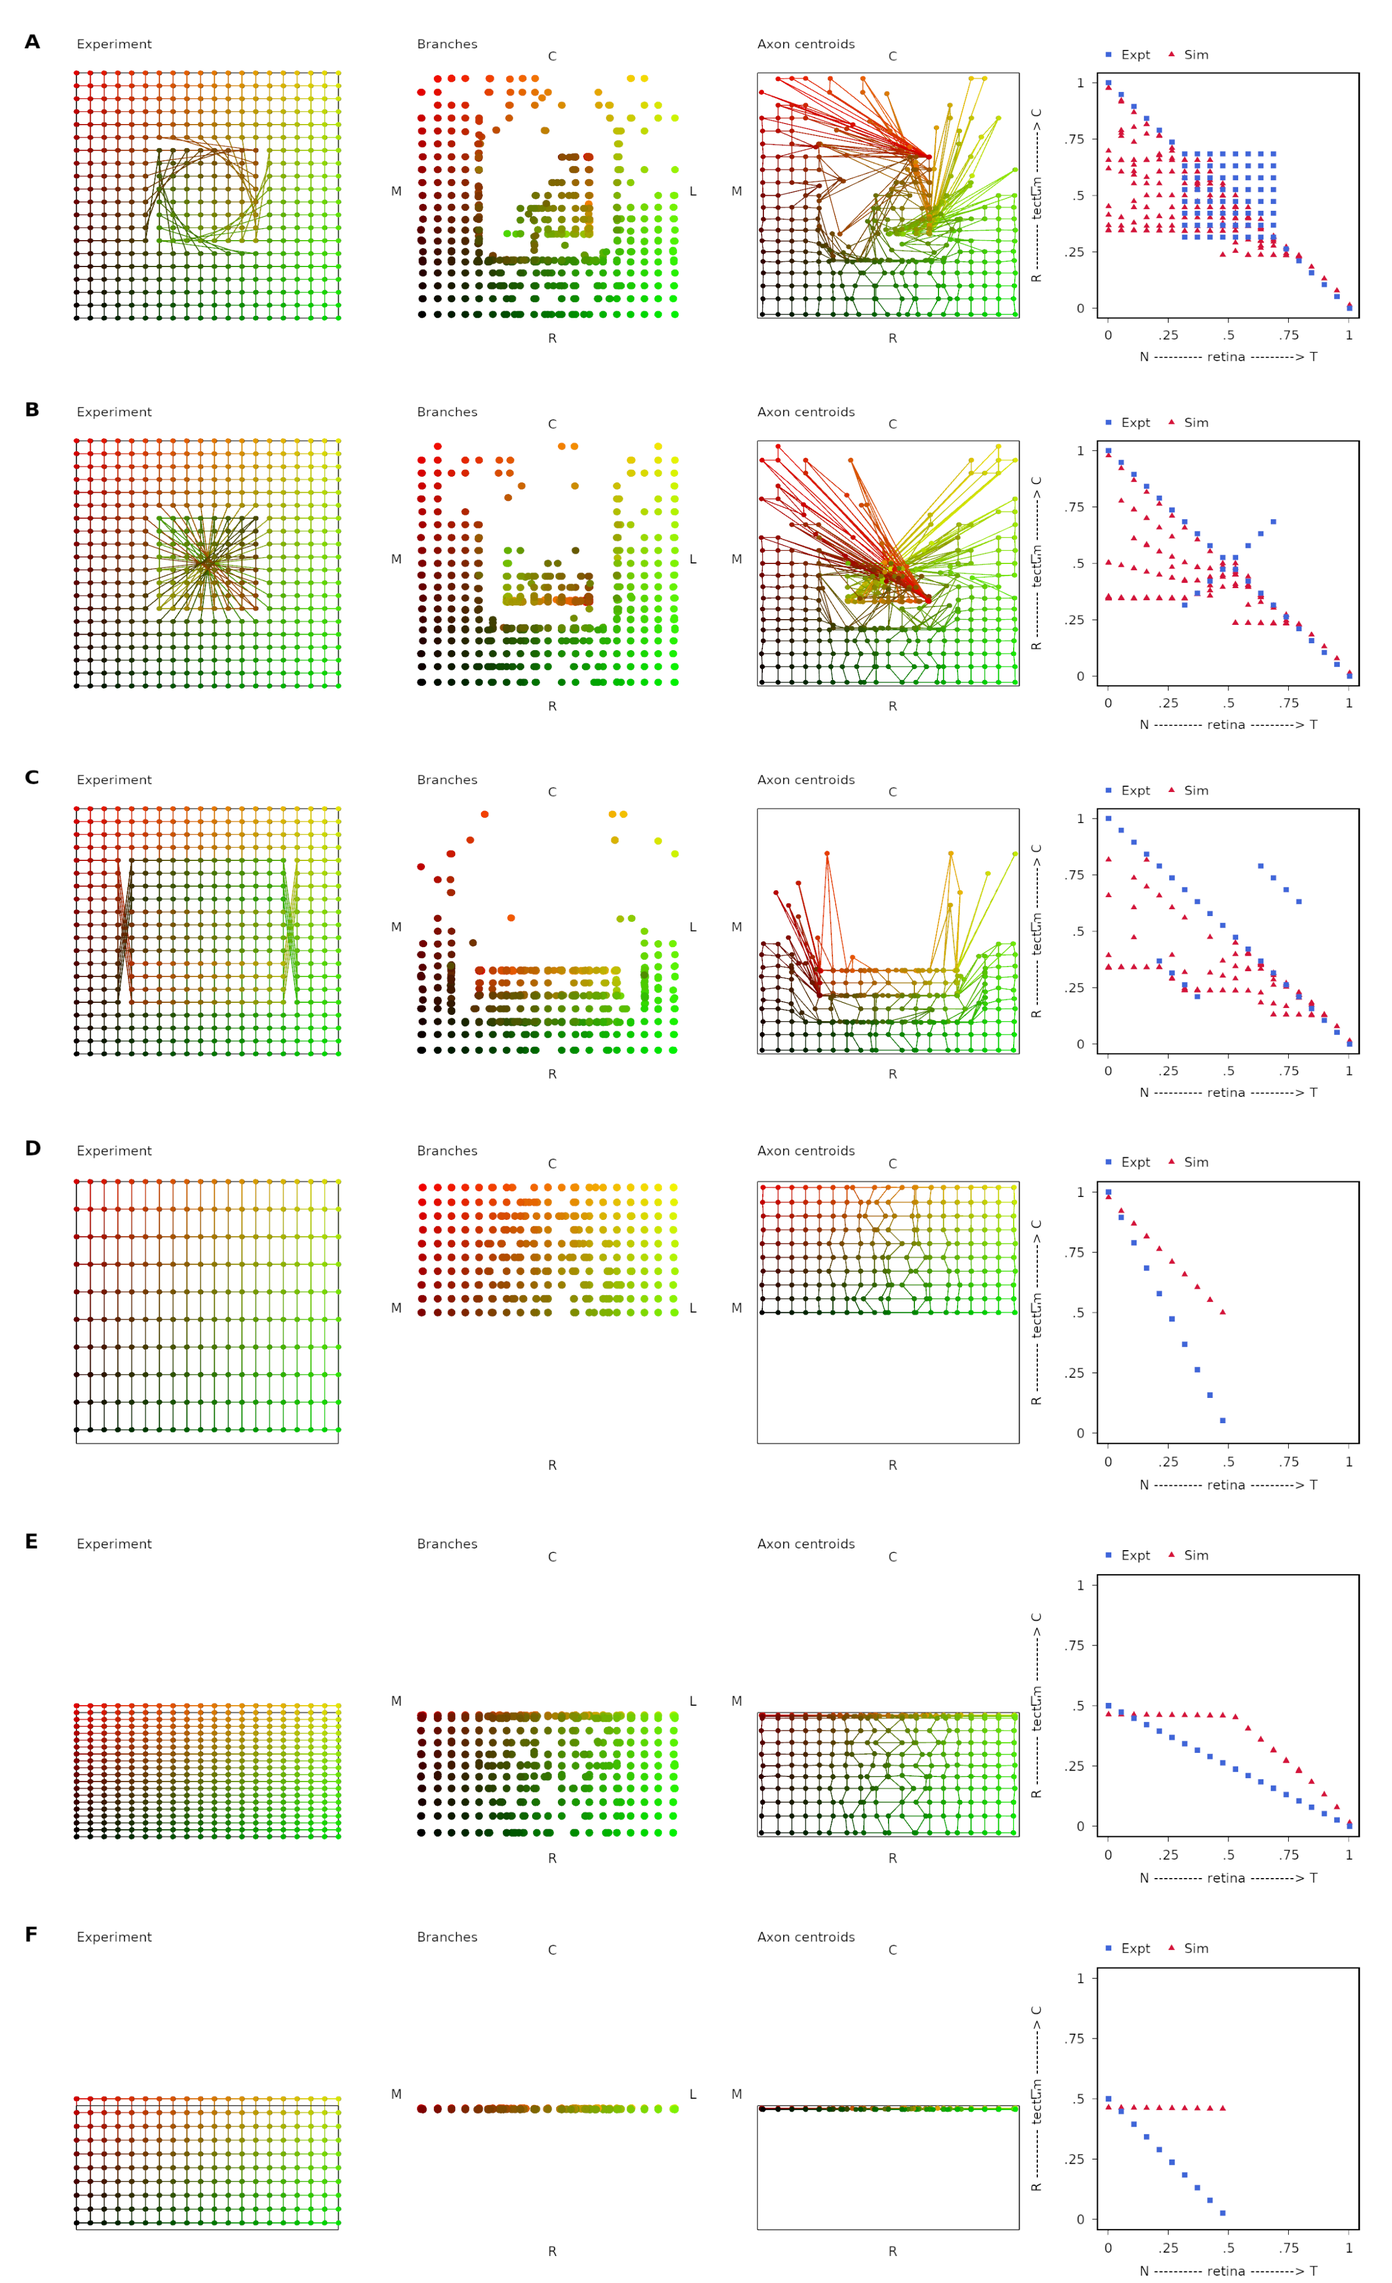
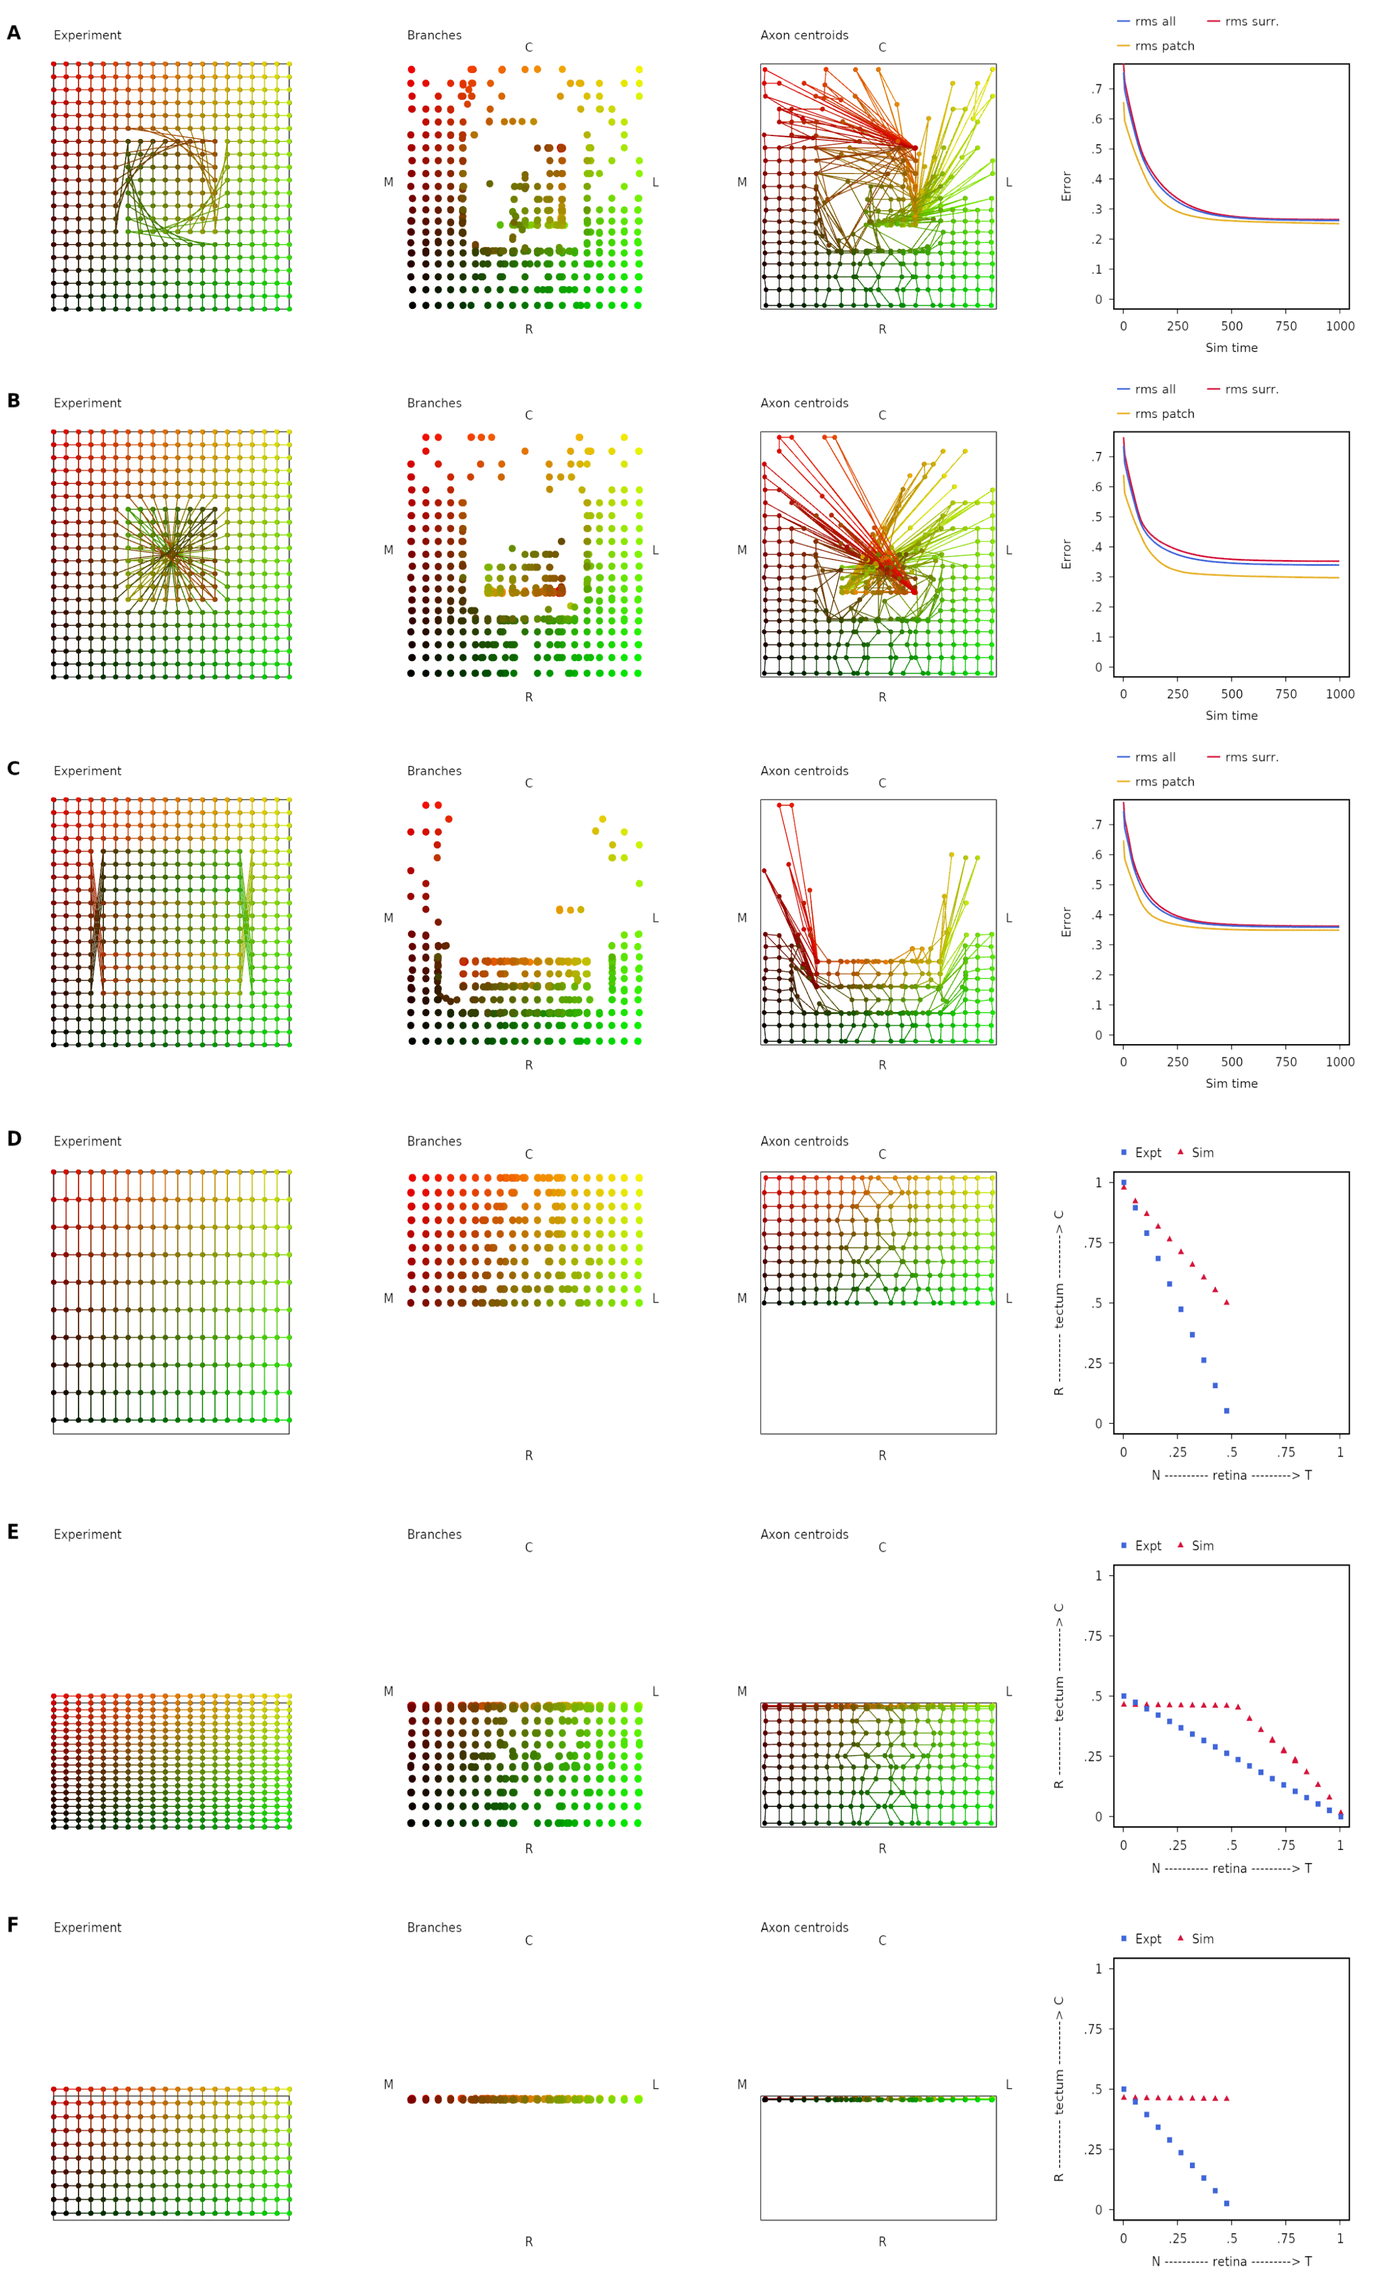
Updated layouts for manipulations images

diff --git a/sim/agent/agent1.h b/sim/agent/agent1.h
@@ -314,17 +314,96 @@ struct Agent1
             glfwPollEvents();
         }
 
+        switch (this->layout) {
+        case graph_layout::a:
+        {
+            this->bv->reinit();  // Branches
+            this->cv->reinit();  // Centroids to end
+            this->tcv->reinit(); // Experiment
+            this->av->reinit();  // Selected axons
+            this->gv->append ((float)stepnum, this->ax_centroids.sos(), 0); // SOS/Crossings
+            if (stepnum > this->crosscount_from && stepnum%this->crosscount_every == 0) {
+                this->gv->append ((float)stepnum, this->ax_centroids.crosscount(), 1);
+            }
+            break;
+        }
+        case graph_layout::b:
+        {
+            this->bv->reinit(); // Branches
+            this->cv->reinit(); // Centroids
+            this->av->reinit(); // Selected axons
+            break;
+        }
+        case graph_layout::c:
+        {
+            this->bv->reinit();  // Branches
+            if (stepnum <= this->freeze_times[1]) { this->cv1->reinit(); } // Time freeze branches
+            this->cv->reinit();  // Centroids
+            this->tcv->reinit(); // Experiment
+            this->av->reinit();  // Selected axons
+            this->gv->append ((float)stepnum, this->ax_centroids.sos(), 0); // SOS/Crossings
+            if (stepnum > this->crosscount_from && stepnum%this->crosscount_every == 0) {
+                this->gv->append ((float)stepnum, this->ax_centroids.crosscount(), 1);
+            }
+            break;
+        }
+        case graph_layout::d:
+        {
+            this->bv->reinit();  // Branches
+            this->cv->reinit();  // Centroids
+            this->tcv->reinit(); // Experiment
+            this->av->reinit();  // Selected axons
+            break;
+        }
+        case graph_layout::e:
+        {
+            this->bv->reinit(); // Branches
+            this->cv->reinit(); // Centroids
+            break;
+        }
+        case graph_layout::f:
+        {
+            this->cv->reinit(); // Centroids
+            this->sim_time_txt->setupText (std::to_string(stepnum)); // Text
+            AgentMetrics<T> am = this->get_metrics();
+            this->sos_txt->setupText (am.sos.str());
+            this->crossings_txt->setupText (am.crosscount.str());
+            break;
+        }
+        case graph_layout::g:
+        {
+            this->bv->reinit(); // Branches
+            this->cv->reinit(); // Centroids
+            this->gv->append ((float)stepnum, this->ax_centroids.rms(), 0); // SOS (whole)
+            this->gv->append ((float)stepnum, this->ax_centroids.rms_outside({0.25,0.25,0},{0.75,0.75,0}), 1); // SOS (surround)
+            this->gv->append ((float)stepnum, this->ax_centroids.rms_inside({0.25,0.25,0},{0.75,0.75,0}), 2); // SOS (patch)
+            break;
+        }
+        case graph_layout::h:
+        {
+            this->bv->reinit(); // Branches
+            this->cv->reinit(); // Centroids
+            break;
+        }
+        default:
+            std::cerr << "Warning: Unknown graph_layout\n";
+            break;
+        }
+#if 0 // Delete when the above is reasonably well tested
         if (this->layout != graph_layout::f) {
             this->bv->reinit(); // Branches
         }
-
         // Centroids that should show up to a certain time
         if (this->layout == graph_layout::c) {
             if (stepnum <= this->freeze_times[1]) { this->cv1->reinit(); }
         }
         this->cv->reinit(); // Centroids to end
 
-        if (this->layout != graph_layout::e && this->layout != graph_layout::f && this->layout != graph_layout::h) {
+        if (this->layout != graph_layout::e
+            && this->layout != graph_layout::f
+            && this->layout != graph_layout::g
+            && this->layout != graph_layout::h) {
+
             if (this->layout != graph_layout::b) {
                 this->tcv->reinit(); // Experiment
             }
@@ -336,12 +415,13 @@ struct Agent1
                 this->gv->append ((float)stepnum, this->ax_centroids.crosscount(), 1);
             }
         }
-        if (this->layout == graph_layout::f) {
+        if (this->layout == graph_layout::f || this->layout == graph_layout::g) {
             this->sim_time_txt->setupText (std::to_string(stepnum));
             AgentMetrics<T> am = this->get_metrics();
             this->sos_txt->setupText (am.sos.str());
             this->crossings_txt->setupText (am.crosscount.str());
         }
+#endif
 
         this->v->render();
         if (this->conf->getBool ("movie", false)) {
@@ -1327,7 +1407,7 @@ struct Agent1
         unsigned int hdefault = 800;
         if (this->layout == graph_layout::a || this->layout == graph_layout::d) { hdefault = 1200; }
         if (this->layout == graph_layout::b || this->layout == graph_layout::e
-            || this->layout == graph_layout::g || this->layout == graph_layout::h ) { hdefault = 700; }
+            || this->layout == graph_layout::g || this->layout == graph_layout::h ) { hdefault = 630; }
         if (this->layout == graph_layout::c) { hdefault = 1180; }
         if (this->layout == graph_layout::f) { hdefault = 550; }
         const unsigned int wh = this->conf->getUInt ("win_height", hdefault);
@@ -1350,9 +1430,9 @@ struct Agent1
         } else if (this->layout == graph_layout::f) {
             this->v->setSceneTrans (1.00190961f,0.0175217576f,-2.70000315f);
         } else if (this->layout == graph_layout::g) {
-            this->v->setSceneTrans (-0.865482569f,-0.0471459851f,-2.79999995f);
+            this->v->setSceneTrans (-1.22557163,-0.0104022622,-2.79999995);
         } else if (this->layout == graph_layout::h) {
-            this->v->setSceneTrans (-0.865482569f,-0.0471459851f,-2.79999995f);
+            this->v->setSceneTrans (-1.22557163,-0.0104022622,-2.79999995);
         }
 
         if constexpr (use_ortho) {
@@ -1757,16 +1837,18 @@ struct Agent1
     void graph_layout_g (const morph::Vector<float>& offset0, const std::string& startletter)
     {
         morph::Vector<float> g_A = offset0 + morph::Vector<float>({0.0f, 0.0f, 0.0f});
-        morph::Vector<float> g_B = offset0 + morph::Vector<float>({1.3f, 0.0f, 0.0f});
-        morph::Vector<float> g_C = offset0 + morph::Vector<float>({2.6f, 0.0f, 0.0f});
-        morph::Vector<float> g_D = offset0 + morph::Vector<float>({3.9f, 0.0f, 0.0f});
+        morph::Vector<float> g_B = offset0 + morph::Vector<float>({1.5f, 0.0f, 0.0f});
+        morph::Vector<float> g_C = offset0 + morph::Vector<float>({3.0f, 0.0f, 0.0f});
+        morph::Vector<float> g_D = offset0 + morph::Vector<float>({4.5f, 0.0f, 0.0f});
 
+        // Expt net
         this->tcv = new NetVisual<T> (v->shaderprog, v->tshaderprog, g_A, &this->ax_centroids);
         this->tcv->viewmode = netvisual_viewmode::targetplus;
         this->tcv->finalize();
         this->tcv->addLabel ("Experiment", {0.0f, 1.1f, 0.0f});
         this->v->addVisualModel (this->tcv);
 
+        // Branches
         this->bv = new BranchVisual<T, N, B> (v->shaderprog, v->tshaderprog, g_B, &this->branches, &this->ax_history);
         this->bv->rcpt_scale.compute_autoscale (rcpt_min, rcpt_max);
         this->bv->target_scale.compute_autoscale (0, 1);
@@ -1778,8 +1860,6 @@ struct Agent1
 
         // Axon centroids: Centroids of branches viewed with a NetVisual
         this->cv = new NetVisual<T> (v->shaderprog, v->tshaderprog, g_C, &this->ax_centroids);
-        //this->cv->maxlen = this->conf->getDouble ("maxnetline", 1.0);
-        //this->cv->viewmode = netvisual_viewmode::actual_nolines;
         this->cv->viewmode = netvisual_viewmode::actual;
         if (this->layout == graph_layout::b) {
             this->cv->radiusFixed = 0.02;
@@ -1789,15 +1869,19 @@ struct Agent1
         this->addOrientationLabels (this->cv, std::string("Tectal"));
         this->v->addVisualModel (this->cv);
 
-        // Selected axons: This one gives an 'axon view'
-        this->av = new BranchVisual<T, N, B> (v->shaderprog, v->tshaderprog, g_D, &this->branches, &this->ax_history);
-        this->av->view = branchvisual_view::axonview;
-        for (auto sa : this->seeaxons) { this->av->seeaxons.insert(sa); }
-        this->av->rcpt_scale.compute_autoscale (rcpt_min, rcpt_max);
-        this->av->target_scale.compute_autoscale (0, 1);
-        this->av->finalize();
-        this->av->addLabel ("Selected axons", {0.0f, 1.1f, 0.0f});
-        this->v->addVisualModel (this->av);
+        // A graph of the SOS diffs between axon position centroids and target positions from retina
+        this->gv = new morph::GraphVisual<T> (v->shaderprog, v->tshaderprog, g_D);
+        this->gv->twodimensional = false;
+        this->gv->setlimits (0, this->conf->getFloat ("steps", 1000),
+                             0, this->conf->getFloat("graph_ymax", 200.0f));
+        this->gv->policy = morph::stylepolicy::lines;
+        this->gv->ylabel = "Error";
+        this->gv->xlabel = "Sim time";
+        this->gv->prepdata ("rms all");
+        this->gv->prepdata ("rms surr.");
+        this->gv->prepdata ("rms patch");
+        this->gv->finalize();
+        this->v->addVisualModel (this->gv);
 
         // Figure letters
         morph::Vector<float> ozero = {-0.2f, 1.1f, 0.0f};
@@ -1807,9 +1891,6 @@ struct Agent1
         if (!startletter.empty()) { sl = startletter[0]; }
         morph::VisualModel* jtvm = new morph::VisualModel (v->shaderprog, v->tshaderprog, ozero);
         jtvm->addLabel (std::string({sl}), g_A, morph::colour::black, morph::VisualFont::VeraBold, lfs, lpts);
-        //jtvm->addLabel (std::string({sl+1}), g_B, morph::colour::black, morph::VisualFont::VeraBold, lfs, lpts);
-        //jtvm->addLabel (std::string({sl+2}), g_C, morph::colour::black, morph::VisualFont::VeraBold, lfs, lpts);
-        //jtvm->addLabel (std::string({sl+3}), g_D, morph::colour::black, morph::VisualFont::VeraBold, lfs, lpts);
         this->v->addVisualModel (jtvm);
     }
 
@@ -1817,9 +1898,9 @@ struct Agent1
     void graph_layout_h (const morph::Vector<float>& offset0, const std::string& startletter)
     {
         morph::Vector<float> g_A = offset0 + morph::Vector<float>({0.0f, 0.0f, 0.0f});
-        morph::Vector<float> g_B = offset0 + morph::Vector<float>({1.3f, 0.0f, 0.0f});
-        morph::Vector<float> g_C = offset0 + morph::Vector<float>({2.6f, 0.0f, 0.0f});
-        morph::Vector<float> g_D = offset0 + morph::Vector<float>({3.9f, 0.0f, 0.0f});
+        morph::Vector<float> g_B = offset0 + morph::Vector<float>({1.5f, 0.0f, 0.0f});
+        morph::Vector<float> g_C = offset0 + morph::Vector<float>({3.0f, 0.0f, 0.0f});
+        morph::Vector<float> g_D = offset0 + morph::Vector<float>({4.5f, 0.0f, 0.0f});
 
         this->tcv = new NetVisual<T> (v->shaderprog, v->tshaderprog, g_A, &this->ax_centroids);
         this->tcv->viewmode = netvisual_viewmode::targetplus;
@@ -1838,12 +1919,7 @@ struct Agent1
 
         // Axon centroids: Centroids of branches viewed with a NetVisual
         this->cv = new NetVisual<T> (v->shaderprog, v->tshaderprog, g_C, &this->ax_centroids);
-        //this->cv->maxlen = this->conf->getDouble ("maxnetline", 1.0);
-        //this->cv->viewmode = netvisual_viewmode::actual_nolines;
         this->cv->viewmode = netvisual_viewmode::actual;
-        if (this->layout == graph_layout::b) {
-            this->cv->radiusFixed = 0.02;
-        }
         this->cv->finalize();
         this->cv->addLabel ("Axon centroids", {0.0f, 1.1f, 0.0f});
         this->addOrientationLabels (this->cv, std::string("Tectal"));

diff --git a/sim/agent/net.h b/sim/agent/net.h
@@ -131,9 +131,70 @@ struct net
     }
 
     //! Return sum of squared distances between p and targ
-    T sos() { return ((p-targ).sos()[0]); }
+    T sos() const { return ((p-targ).sos()[0]); }
+
+    //! Return sum of squared distances between p and targ for a patch inside the (2D) square defined by 2 corners
+    T sos_inside (const morph::Vector<T, 3>& corner1, const morph::Vector<T, 3>& corner2) const
+    {
+        morph::vVector<T> mask (p.size());
+        for (unsigned int i = 0; i < p.size(); ++i) {
+            // Mask set to 1 for targets inside the corners
+            mask[i] = (targ[i][0] >= corner1[0]
+                       && targ[i][1] >= corner1[1]
+                       && targ[i][0] <= corner2[0]
+                       && targ[i][1] <= corner2[1]) ? T{1} : T{0};
+        }
+        morph::vVector<morph::Vector<T, 3>> p_minus_targ = (p - targ) * mask;
+        return (p_minus_targ.sos()[0]);
+    }
+
+    //! Return sum of squared distances between p and targ for a patch outside the (2D) square defined by 2 corners
+    T sos_outside (const morph::Vector<T, 3>& corner1, const morph::Vector<T, 3>& corner2) const
+    {
+        morph::vVector<T> mask (p.size());
+        for (unsigned int i = 0; i < p.size(); ++i) {
+            // Mask set to 1 for targets outside the corners
+            mask[i] = (targ[i][0] < corner1[0]
+                       || targ[i][1] < corner1[1]
+                       || targ[i][0] > corner2[0]
+                       || targ[i][1] > corner2[1]) ? T{1} : T{0};
+        }
+        morph::vVector<morph::Vector<T, 3>> p_minus_targ = (p - targ) * mask;
+        return (p_minus_targ.sos()[0]);
+    }
+
     //! Return RMS error of each agent from its target
-    T rms() { return std::sqrt(((p-targ).sos()[0]) / this->targ.size()); }
+    T rms() const { return std::sqrt(((p-targ).sos()[0]) / this->targ.size()); }
+
+    //! Return mean distances between p and targ for a patch inside the (2D) square defined by 2 corners
+    T rms_inside (const morph::Vector<T, 3>& corner1, const morph::Vector<T, 3>& corner2) const
+    {
+        morph::vVector<T> mask (p.size());
+        for (unsigned int i = 0; i < p.size(); ++i) {
+            // Mask set to 1 for targets inside the corners
+            mask[i] = (targ[i][0] >= corner1[0]
+                       && targ[i][1] >= corner1[1]
+                       && targ[i][0] <= corner2[0]
+                       && targ[i][1] <= corner2[1]) ? T{1} : T{0};
+        }
+        morph::vVector<morph::Vector<T, 3>> p_minus_targ = (p - targ) * mask;
+        return std::sqrt((p_minus_targ.sos()[0])/mask.sum());
+    }
+
+    //! Return mean distances between p and targ for a patch outside the (2D) square defined by 2 corners
+    T rms_outside (const morph::Vector<T, 3>& corner1, const morph::Vector<T, 3>& corner2) const
+    {
+        morph::vVector<T> mask (p.size());
+        for (unsigned int i = 0; i < p.size(); ++i) {
+            // Mask set to 1 for targets outside the corners
+            mask[i] = (targ[i][0] < corner1[0]
+                       || targ[i][1] < corner1[1]
+                       || targ[i][0] > corner2[0]
+                       || targ[i][1] > corner2[1]) ? T{1} : T{0};
+        }
+        morph::vVector<morph::Vector<T, 3>> p_minus_targ = (p - targ) * mask;
+        return std::sqrt((p_minus_targ.sos()[0])/mask.sum());
+    }
 
     //! Positions of the vertices of the net
     morph::vVector<morph::Vector<T, 3>> p;
